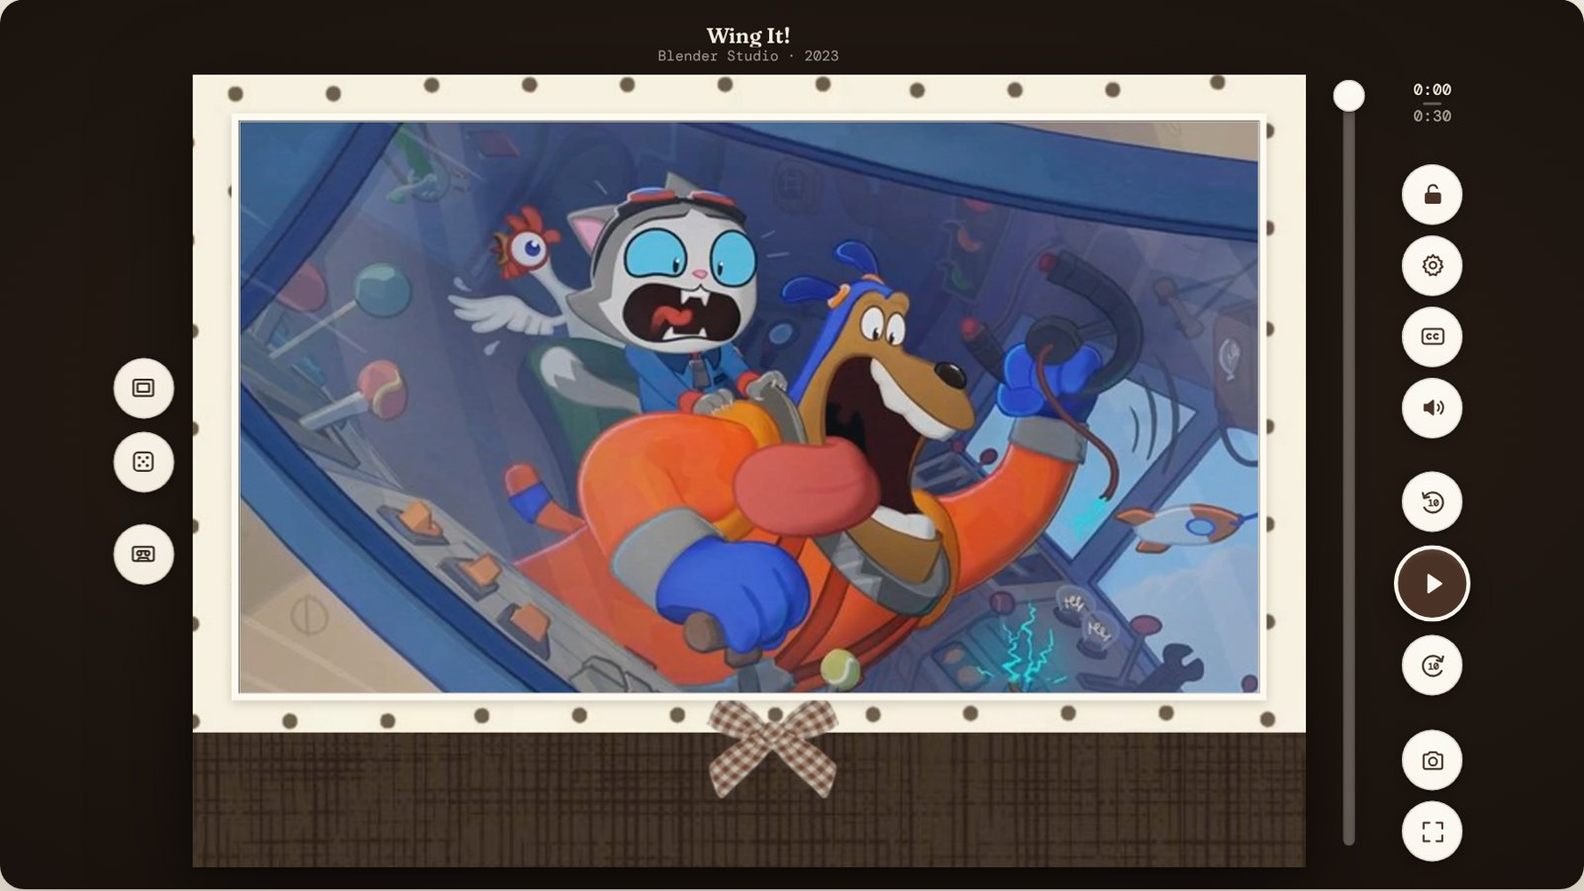
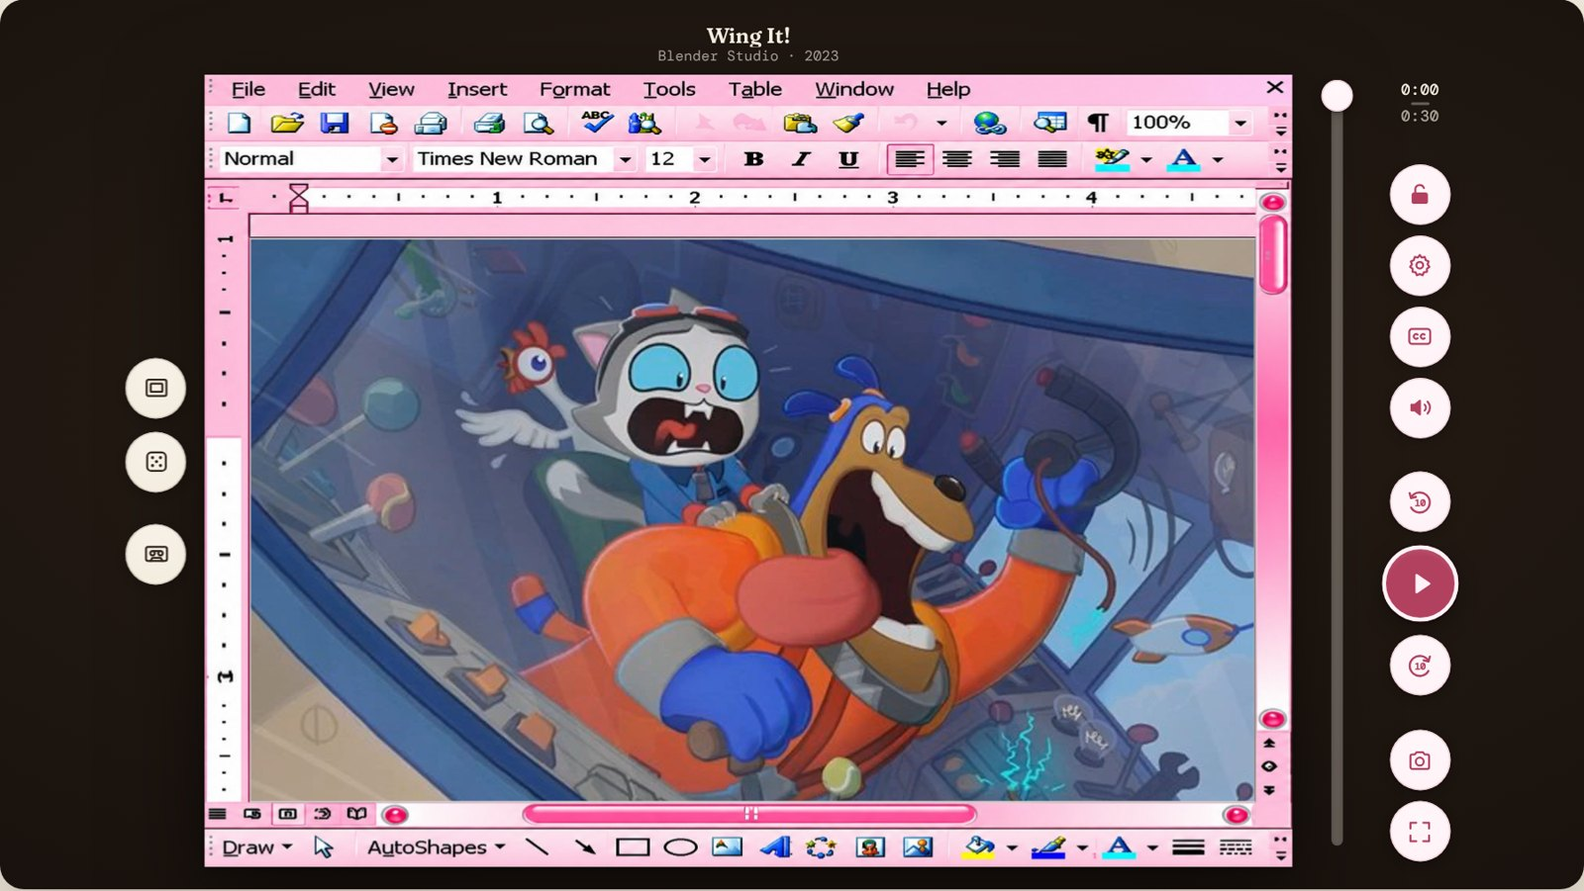
Add files via upload

diff --git a/src/three/Stage.jsx b/src/three/Stage.jsx
@@ -23,6 +23,9 @@ export default function Stage() {
   const [lite, setLite] = useState(forceLite);
   const declines = useRef(0);
   const inside = useApp((s) => s.phase === 'inside');
+  // the frame-rate check starts once the opening move is over: measured during it, the warm-up would read as a slow
+  // device and switch to lite mode mid-move, recompiling every shader at the worst moment
+  const settled = useApp((s) => s.introDone);
   return (
     <div className="stage" data-inside={inside || undefined} aria-hidden="true">
       <Canvas
@@ -30,7 +33,11 @@ export default function Stage() {
         dpr={dpr}
         camera={{ fov: 40, near: 0.1, far: 160, position: [-6, 3, 9] }}
         // a logarithmic depth buffer keeps surfaces a few millimetres apart from flickering, phones included
-        gl={{ antialias: true, powerPreference: 'high-performance', logarithmicDepthBuffer: true }}
+        gl={{
+          antialias: true,
+          powerPreference: 'high-performance',
+          logarithmicDepthBuffer: true,
+        }}
         onCreated={({ gl }) => {
           if (import.meta.env.DEV) window.__gl = gl; // lets the tests count frames
           gl.toneMapping = THREE.ACESFilmicToneMapping;
@@ -38,14 +45,16 @@ export default function Stage() {
           gl.shadowMap.type = THREE.PCFShadowMap;
         }}
       >
-        <PerformanceMonitor
-          onDecline={() => {
-            declines.current += 1;
-            setDpr(1);
-            if (declines.current >= 2) setLite(true);
-          }}
-          onIncline={() => !lite && setDpr(Math.min(1.75, window.devicePixelRatio || 1))}
-        />
+        {settled && (
+          <PerformanceMonitor
+            onDecline={() => {
+              declines.current += 1;
+              setDpr(1);
+              if (declines.current >= 2) setLite(true);
+            }}
+            onIncline={() => !lite && setDpr(Math.min(1.75, window.devicePixelRatio || 1))}
+          />
+        )}
         <color attach="background" args={[PAL.haze]} ref={dayNight('', PAL.haze, '#22242f')} />
         <fog attach="fog" args={[PAL.haze, 16, 46]} ref={dayNight('color', PAL.haze, '#22242f')} />
         <DayNight />
@@ -218,12 +227,44 @@ function SkyDome() {
   );
 }
 
+/**
+ * Ready when the street is drawn and everything in it is prepared: every
+ * material's shader compiled and every picture on the GPU, the booth's inside
+ * included. Three.js would otherwise do that work the first time each thing
+ * came into view, which is what makes an opening camera move stutter. It
+ * happens here, behind the preloader, so the first move is smooth.
+ */
 function ReadySignal() {
   const frames = useRef(0);
+  const { gl, scene, camera } = useThree();
   useFrame(() => {
-    if (frames.current > 3) return;
+    if (frames.current > 2) return;
     frames.current += 1;
-    if (frames.current === 3) document.fonts.ready.then(() => useApp.setState({ sceneReady: true }));
+    if (frames.current !== 2) return;
+    const warm = async () => {
+      try {
+        if (gl.compileAsync) await gl.compileAsync(scene, camera);
+        else gl.compile(scene, camera);
+        const seen = new Set();
+        scene.traverse((o) => {
+          const mats = Array.isArray(o.material) ? o.material : o.material ? [o.material] : [];
+          for (const m of mats) {
+            for (const key of ['map', 'emissiveMap', 'normalMap', 'roughnessMap', 'alphaMap', 'envMap']) {
+              const t = m[key];
+              if (t && t.isTexture && !seen.has(t) && t.image) {
+                seen.add(t);
+                gl.initTexture(t);
+              }
+            }
+          }
+        });
+      } catch {
+        /* nothing to warm: the first frames will do it */
+      }
+      await document.fonts.ready;
+      useApp.setState({ sceneReady: true });
+    };
+    warm();
   });
   return null;
 }

diff --git a/src/lib/music.js b/src/lib/music.js
@@ -256,12 +256,12 @@ export function createMusic(ctx, out = ctx.destination) {
 let ctx = null;
 let music = null;
 let playing = false;
-let unlocked = false;
+const GESTURES = ['pointerdown', 'touchend', 'click', 'keydown'];
 
 /** Whether the music should be heard right now. */
 function wanted() {
   const s = useApp.getState();
-  if (s.host !== 'booth' || !s.sound || s.phase === 'loading' || !unlocked) return false;
+  if (s.host !== 'booth' || !s.sound) return false;
   if (typeof document !== 'undefined' && document.hidden) return false;
   // a film has started and you are watching it (or it is still running on the booth's television): the film has the room.
   // Choosing the frame comes before the film, so the music carries on through it; printing your snaps brings it back.
@@ -283,8 +283,10 @@ function update() {
       ctx = new AC();
       music = createMusic(ctx);
     }
+    // starts at once, during the preloader too; where the browser holds sound back until the first touch
+    // or key, the music is already written and its fade-in simply begins at that touch
     ctx.resume?.().catch(() => {});
-    music.start(useApp.getState().reducedMotion ? 1.5 : 3.5);
+    music.start(2.5);
   } else if (music) {
     // quick when the film starts (it should not talk over the opening), gentle otherwise
     music.stop(1.2, () => {
@@ -293,15 +295,20 @@ function update() {
   }
 }
 
-/** Start listening: browsers only allow sound after a first touch, click or key, so the music waits for one. */
+/**
+ * Start the music as the page opens. Most browsers keep a page silent until
+ * it is first touched, clicked or typed on; where they do, the music resumes
+ * on that very first touch, wherever it lands, so nothing has to be pressed
+ * on purpose.
+ */
 export function bindMusic() {
   const unlock = () => {
-    unlocked = true;
+    if (ctx && ctx.state !== 'running' && playing) ctx.resume?.().catch(() => {});
+    if (ctx?.state === 'running') for (const e of GESTURES) window.removeEventListener(e, unlock, opts);
     update();
   };
   const opts = { capture: true, passive: true };
-  window.addEventListener('pointerdown', unlock, opts);
-  window.addEventListener('keydown', unlock, opts);
+  for (const e of GESTURES) window.addEventListener(e, unlock, opts);
   // the film's own play and pause count too, not only the booth's state
   let video = null;
   const watchVideo = (v) => {
@@ -315,10 +322,10 @@ export function bindMusic() {
     update();
   });
   watchVideo(useApp.getState().videoEl);
+  update(); // straight away: during the preloader, not after it
   document.addEventListener('visibilitychange', update);
   return () => {
-    window.removeEventListener('pointerdown', unlock, opts);
-    window.removeEventListener('keydown', unlock, opts);
+    for (const e of GESTURES) window.removeEventListener(e, unlock, opts);
     document.removeEventListener('visibilitychange', update);
     watchVideo(null);
     unsub();

diff --git a/src/styles/skin.css b/src/styles/skin.css
@@ -352,7 +352,7 @@
 /* ---------- locked: one key to come back ---------- */
 
 /* locked: the unlock key is gone from view until the pointer moves, the screen is tapped or it gets keyboard focus */
-.pb-unlock { --key: 60px; position: absolute; z-index: 8; right: 18px; top: calc(50% - 30px); opacity: 0; pointer-events: none; transition: opacity 0.25s ease; --k-surface: #f4ede0; --k-ink: #33261c; }
+.pb-unlock { --key: 52px; position: absolute; z-index: 8; right: 14px; top: calc(50% - 26px); opacity: 0; pointer-events: none; transition: opacity 0.25s ease; --k-surface: #f4ede0; --k-ink: #33261c; }
 .pb-unlock[data-bright], .pb-unlock:focus-visible { opacity: 1; pointer-events: auto; }
 .pb-skin[data-locked] .pb-window { cursor: default; }
 
@@ -513,8 +513,8 @@
   box-shadow: inset 0 0 0 1px color-mix(in srgb, var(--k-ink) 16%, transparent), 0 8px 24px rgb(0 0 0 / 0.38);
   pointer-events: none;
 }
-.pb-gauge[data-side='left'] { left: max(10px, 5%); }
-.pb-gauge[data-side='right'] { right: max(10px, 5%); }
+.pb-gauge[data-side='left'] { left: var(--gauge-inset, max(10px, 5%)); }
+.pb-gauge[data-side='right'] { right: var(--gauge-inset, max(10px, 5%)); }
 .pb-gauge-icon .icon { width: 22px; height: 22px; }
 .pb-gauge-track { position: relative; width: 6px; height: 100%; border-radius: 3px; background: color-mix(in srgb, var(--k-ink) 18%, transparent); box-shadow: inset 0 1px 2px rgb(0 0 0 / 0.22); overflow: hidden; }
 .pb-gauge-fill { position: absolute; inset: auto 0 0; border-radius: 3px; background: var(--k-ink); }

diff --git a/src/player/Skin.jsx b/src/player/Skin.jsx
@@ -680,6 +680,7 @@ export function PlayboothSkin({ children }) {
                   height: geo.frame.win.h,
                   borderRadius: geo.frame.win.r || undefined,
                   '--bright': brightness,
+                  '--gauge-inset': `${gaugeInset(geo, size.w, locked)}px`,
                   '--osd': `${Math.round(clamp(Math.min(geo.frame.win.w, geo.frame.win.h) * 0.2, 52, 92))}px`,
                 }}
                 onPointerDown={onWindowDown}
@@ -1077,6 +1078,23 @@ function Feedback() {
 }
 
 /** The level beside your thumb while you slide: brightness on the left, volume on the right. */
+/*
+ * The levels sit the same distance in from both sides of the picture, so
+ * brightness and volume mirror each other. While the player is locked, the
+ * unlock key waits at the right edge of the player; if the picture reaches
+ * under it, both levels step in together, just far enough for the volume
+ * level to clear the key.
+ */
+const UNLOCK = { size: 52, right: 14 };
+function gaugeInset(geo, sw, locked) {
+  const win = geo.frame.win;
+  const base = Math.max(10, win.w * 0.05);
+  if (!locked) return Math.round(base);
+  const winRight = geo.frame.x + win.x + win.w;
+  const keyLeft = sw - UNLOCK.right - UNLOCK.size;
+  return Math.round(Math.max(base, winRight - keyLeft + 12));
+}
+
 function Gauge({ g }) {
   if (!g) return null;
   const bright = g.kind === 'brightness';

diff --git a/index.html b/index.html
@@ -12,7 +12,7 @@
     <meta property="og:url" content="https://playbooth.vercel.app/" />
     <meta property="og:title" content="PLAYBOOTH — your own little movie booth" />
     <meta property="og:description" content="A photobooth for films: step into a little booth, slide a tape into the VCR, watch in a frame you choose and print your favorite moments. Built on a mobile-first Video.js 10 skin." />
-    <meta property="og:image" content="https://playbooth.vercel.app/og.png" />
+    <meta property="og:image" content="https://playbooth.vercel.app/og.png?v=2" />
     <meta property="og:image:type" content="image/png" />
     <meta property="og:image:width" content="1200" />
     <meta property="og:image:height" content="630" />
@@ -20,7 +20,7 @@
     <meta name="twitter:card" content="summary_large_image" />
     <meta name="twitter:title" content="PLAYBOOTH — your own little movie booth" />
     <meta name="twitter:description" content="A photobooth for films: step into a little booth, slide a tape into the VCR, watch in a frame you choose and print your favorite moments. Built on a mobile-first Video.js 10 skin." />
-    <meta name="twitter:image" content="https://playbooth.vercel.app/og.png" />
+    <meta name="twitter:image" content="https://playbooth.vercel.app/og.png?v=2" />
     <link rel="icon" href="/favicon.svg" type="image/svg+xml" />
   </head>
   <body>

diff --git a/player/index.html b/player/index.html
@@ -13,7 +13,7 @@
     <meta property="og:url" content="https://playbooth.vercel.app/player/" />
     <meta property="og:title" content="PLAYBOOTH × Video.js — the skin" />
     <meta property="og:description" content="The PLAYBOOTH skin for Video.js 10: vertical, mobile-first controls in a photobooth frame. Try sizes, frames and your own frame." />
-    <meta property="og:image" content="https://playbooth.vercel.app/og.png" />
+    <meta property="og:image" content="https://playbooth.vercel.app/og.png?v=2" />
     <meta property="og:image:type" content="image/png" />
     <meta property="og:image:width" content="1200" />
     <meta property="og:image:height" content="630" />
@@ -21,7 +21,7 @@
     <meta name="twitter:card" content="summary_large_image" />
     <meta name="twitter:title" content="PLAYBOOTH × Video.js — the skin" />
     <meta name="twitter:description" content="The PLAYBOOTH skin for Video.js 10: vertical, mobile-first controls in a photobooth frame. Try sizes, frames and your own frame." />
-    <meta name="twitter:image" content="https://playbooth.vercel.app/og.png" />
+    <meta name="twitter:image" content="https://playbooth.vercel.app/og.png?v=2" />
     <link rel="icon" href="/favicon.svg" type="image/svg+xml" />
   </head>
   <body>

diff --git a/embed/index.html b/embed/index.html
@@ -12,7 +12,7 @@
     <meta property="og:url" content="https://playbooth.vercel.app/embed/" />
     <meta property="og:title" content="PLAYBOOTH player on any page" />
     <meta property="og:description" content="The PLAYBOOTH Video.js 10 skin dropped into an ordinary page with one React component." />
-    <meta property="og:image" content="https://playbooth.vercel.app/og.png" />
+    <meta property="og:image" content="https://playbooth.vercel.app/og.png?v=2" />
     <meta property="og:image:type" content="image/png" />
     <meta property="og:image:width" content="1200" />
     <meta property="og:image:height" content="630" />
@@ -20,7 +20,7 @@
     <meta name="twitter:card" content="summary_large_image" />
     <meta name="twitter:title" content="PLAYBOOTH player on any page" />
     <meta name="twitter:description" content="The PLAYBOOTH Video.js 10 skin dropped into an ordinary page with one React component." />
-    <meta name="twitter:image" content="https://playbooth.vercel.app/og.png" />
+    <meta name="twitter:image" content="https://playbooth.vercel.app/og.png?v=2" />
     <link rel="icon" href="/favicon.svg" type="image/svg+xml" />
   </head>
   <body>

diff --git a/src/ui/Screens.jsx b/src/ui/Screens.jsx
@@ -14,7 +14,7 @@ export function Preloader() {
   const [gone, setGone] = useState(false);
   const done = (ready || !webgl) && minDone;
   useEffect(() => {
-    const id = setTimeout(() => setMinDone(true), 1100);
+    const id = setTimeout(() => setMinDone(true), 450); // just long enough not to flash
     return () => clearTimeout(id);
   }, []);
   useEffect(() => {
@@ -26,7 +26,7 @@ export function Preloader() {
       const wait = !st.webgl || st.reducedMotion ? 0 : 4300;
       setTimeout(() => useApp.setState({ introDone: true }), wait);
     }
-    const id = setTimeout(() => setGone(true), 900);
+    const id = setTimeout(() => setGone(true), 650);
     return () => clearTimeout(id);
   }, [done]);
   if (gone) return null;

diff --git a/src/styles/app.css b/src/styles/app.css
@@ -122,7 +122,7 @@ kbd {
 
 /* ---------- preloader ---------- */
 
-.preloader { position: fixed; inset: 0; z-index: 300; display: grid; place-items: center; background: var(--paper); color: var(--ink); transition: opacity 0.8s var(--ease), visibility 0s 0.8s; }
+.preloader { position: fixed; inset: 0; z-index: 300; display: grid; place-items: center; background: var(--paper); color: var(--ink); transition: opacity 0.6s var(--ease), visibility 0s 0.6s; }
 .preloader[data-done] { opacity: 0; visibility: hidden; }
 .preloader-inner { display: grid; justify-items: center; gap: 14px; }
 .preloader-mark { font-size: 2rem; }

diff --git a/README.md b/README.md
@@ -17,7 +17,7 @@ The player inside the booth is a complete Video.js 10 skin that also stands on i
 | The player on an ordinary page | https://playbooth.vercel.app/embed/ |
 | Source | https://github.com/ruffasakay/playbooth |
 
-Built with Video.js 10.4 (`@videojs/react`), Mux, React 19, React Three Fiber and three.js. Apache License 2.0.
+Built with Video.js 10.4 (`@videojs/react`), React 19, React Three Fiber and three.js; the films are hosted and streamed on [Mux](https://www.mux.com). Apache License 2.0.
 
 ---
 
@@ -65,9 +65,9 @@ As a film lover, the feature I always wanted is a screenshot button. Press **S**
 ## Features
 
 <p align="center">
-  <img src="docs/player-desktop.jpg" alt="The player on a desktop: Wing It! inside a cream polka-dot frame with a gingham bow. A tall progress column and one column of round keys stand to the right of the picture; the frame, shuffle and next-film keys sit to the left." width="72%">
+  <img src="docs/player-desktop.jpg" alt="The player on a desktop: Wing It! as the white page of a pink 2003-style word processor, toolbars above and below. A tall progress column and one column of round keys stand to the right of the picture; the frame, shuffle and next-film keys sit to the left." width="72%">
   &nbsp;
-  <img src="docs/player-phone.jpg" alt="The player held upright on a phone: the film in a pink desktop-document frame, the progress bar below it, two rows of round keys, and a Frames and films button at the bottom." width="24%">
+  <img src="docs/player-phone.jpg" alt="The player held upright on a phone: the film in an aqua glass-mosaic frame, the progress bar below it, two rows of round keys, and a Frames and films button at the bottom." width="24%">
 </p>
 <p align="center"><sub>The player on a desktop and held upright on a phone. The picture is a still from the poster art of <i>Wing It!</i> (Blender Studio, CC BY 4.0).</sub></p>
 
@@ -76,7 +76,7 @@ As a film lover, the feature I always wanted is a screenshot button. Press **S**
 - **Vertical controls**: a full-height progress column with the time, and one column of keys beside the picture (two or three columns only on short players, such as a phone on its side). Upright, the dock lies under the picture.
 - **Clip reel**: hover or drag the progress and real frames from the film's Mux storyboard ride beside the pointer; a sharp frame replaces the active clip once the pointer rests.
 - **Steps aside**: after a few seconds of play the controls fade and the picture grows (an animated FLIP), and a move or a tap brings them back.
-- **Lock**: one click locks, one click unlocks. While locked, only volume and brightness still answer, by key or by slide, so you can always hear and see comfortably.
+- **Lock**: one click locks, one click unlocks. While locked, only volume and brightness still answer, by key or by slide, so you can always hear and see comfortably. Their levels sit the same distance in from both sides of the picture and step in together when needed to clear the unlock key.
 - **Settings**: quality (every rendition the stream offers, and Auto), playback speed, subtitle style (font, size, colour, outline or box), brightness (30–150%, the picture only) and picture-in-picture.
 - **Feedback**: a keyboard shortcut or a click on the picture flashes a large copy of its key in the middle of the picture, icon only. Volume and brightness show a level at the picture's edge instead: right for volume, left for brightness. Pressing the dock's own keys doesn't double this, since those keys already show their state.
 - **Touch**: a tap brings the keys back; with them up, a tap plays or pauses. Double-tap the left or right of the picture to go back or forward 10 s. Hold and slide up or down: the left half sets brightness, the right half the volume.
@@ -101,13 +101,14 @@ The chooser is a list that scrolls: each row has a thumbnail that shows the patt
 
 ### The booth
 
-<p align="center"><img src="docs/booth.jpg" alt="The booth at night: a small white booth with a green roof and a PLAYBOOTH sign, film posters on its walls, a poster column, a bicycle, a chalkboard and string lights on the street around it." width="80%"></p>
+<p align="center"><img src="docs/booth.jpg" alt="The booth at night: a small white booth with a green roof and a lit PLAYBOOTH sign, film posters on its walls, and on the street around it a lamp-post, a poster column, a bicycle, a chalkboard and string lights." width="80%"></p>
 
-- **The street**: a booth on a street at night (or day, with the switch). Lit poster cases and an advertising column carry the films' real posters, there's a chalkboard by the door, and the room's lamps and string lights come on after dark.
+- **The street**: a booth on a street at night (or day, with the switch). Lit poster cases and an advertising column carry the films' real posters, there's a chalkboard by the door, and the lantern lamp-posts, the room's lamps and the string lights come on after dark.
+- **Arrival**: a short preloader, then the camera starts close on the booth's lit sign and eases back to the street.
 - **The tapes**: ten tapes on a video-store rack, newest first, each wearing its film's official poster.
 - **Tape moves**: pick a tape to see it close up; drag or click it into the VCR and watch on an old television.
 - **Sounds**: every interface sound is synthesized with WebAudio, and one switch mutes them all.
-- **Music**: a slow, warm lo-fi loop (electric piano, round bass, a few bells, brushes and a record's crackle), also played live by WebAudio, with no files. It is quiet (about -31 dBFS), starts with your first touch or key (browsers require one), fades out when a film starts and comes back when you eject the tape or go to print your snaps. The same sound switch silences it. The booth only; the showcase and the embedded player stay silent.
+- **Music**: a slow, warm lo-fi loop (electric piano, round bass, a few bells, brushes and a record's crackle), also played live by WebAudio, with no files. It is quiet (about -31 dBFS) and starts as the page opens, during the preloader; browsers that keep a page silent until it is first touched let it in on the very first touch, click or key. It fades out when a film starts and comes back when you eject the tape or go to print your snaps. The same sound switch silences it. The booth only; the showcase and the embedded player stay silent.
 
 ### The showcase page (`/player/`)
 
@@ -247,6 +248,7 @@ The 3D scene and the DOM never reach into each other: both read and write one sm
 
 - **The places**: the street, the booth, the room, the rack and tapes, the VCR, TV and printer, and the prints. The camera rig moves between named stations (street, room, tapes, player, prints, watch).
 - **Tapes**: they move on keyframed paths. Inserting one slides it out of its cubby, turns it flat, lines it up with the slot and lets the deck draw it in; ejecting plays the same story backwards.
+- **Smooth from the first frame**: behind the preloader, every shader is compiled and every texture uploaded (`compileAsync`, `initTexture`), so the opening move doesn't stutter while three.js prepares things the first time they come into view. The frame-rate check that can step down to a lighter mode starts only after the opening.
 - **Rendering while you watch**: when the camera settles on the TV to watch, the scene stops drawing (the player covers it), so the GPU is left to the video. It resumes exactly where it was when you stand up.
 - **No flicker**: posters, prints and signs stand a few millimetres clear of what's behind them, no two outer faces share a plane, and the renderer uses a logarithmic depth buffer.
 
@@ -327,7 +329,7 @@ docs/                   screenshots for this README
 
 ## Films
 
-Ten Blender Studio open movies under Creative Commons, all streamed from Mux. On the shelf they run newest first, left to right and top to bottom.
+Ten Blender Studio open movies under Creative Commons, hosted and streamed on Mux. On the shelf they run newest first, left to right and top to bottom.
 
 | Film | Credit | License | Mux playback ID |
 | --- | --- | --- | --- |
@@ -352,8 +354,9 @@ Made with love by [@ruffasakay](https://contra.com/ruffasakay).
 
 - **Films and posters**: Blender Foundation and Blender Studio, under the Creative Commons licenses listed above. The tapes show each poster's art and title, and its billing block is left out; the player names the studio and the year; the full credit line and license go with every photo.
 - **Fonts**: Fraunces, DM Mono, Caveat, Atkinson Hyperlegible Next and Literata, all under the SIL Open Font License 1.1.
+- **Video hosting**: the films are hosted and streamed on [Mux](https://www.mux.com).
 - **Video.js mark**: the official one, from the `videojs/video.js` repository.
-- **Everything else**: the 3D models, icons, sounds and drawn frames are original and made in code. The fourteen pattern frames are pictures chosen by the author.
+- **Everything else**: the 3D models, icons, sounds, music and drawn frames are original and made in code. The fourteen pattern frames are pictures chosen by the author.
 
 Licensed under the Apache License, Version 2.0. See [`LICENSE`](LICENSE).
 
@@ -367,3 +370,4 @@ Licensed under the Apache License, Version 2.0. See [`LICENSE`](LICENSE).
 - **Multiple downloads**: browsers may ask once to allow them when you snap several frames.
 - **Storage**: photos live in this browser only (IndexedDB). Private browsing may not keep them; the booth says so and offers to download them.
 - **Pattern frames**: each one loads its picture the first time it's used, so on a slow connection its plain colour shows for a moment first.
+- **Music before the first touch**: most browsers, iPhone and Android included, keep a page silent until it is touched, clicked or typed on. Where they do, the music waits for that first touch instead of starting with the preloader.
